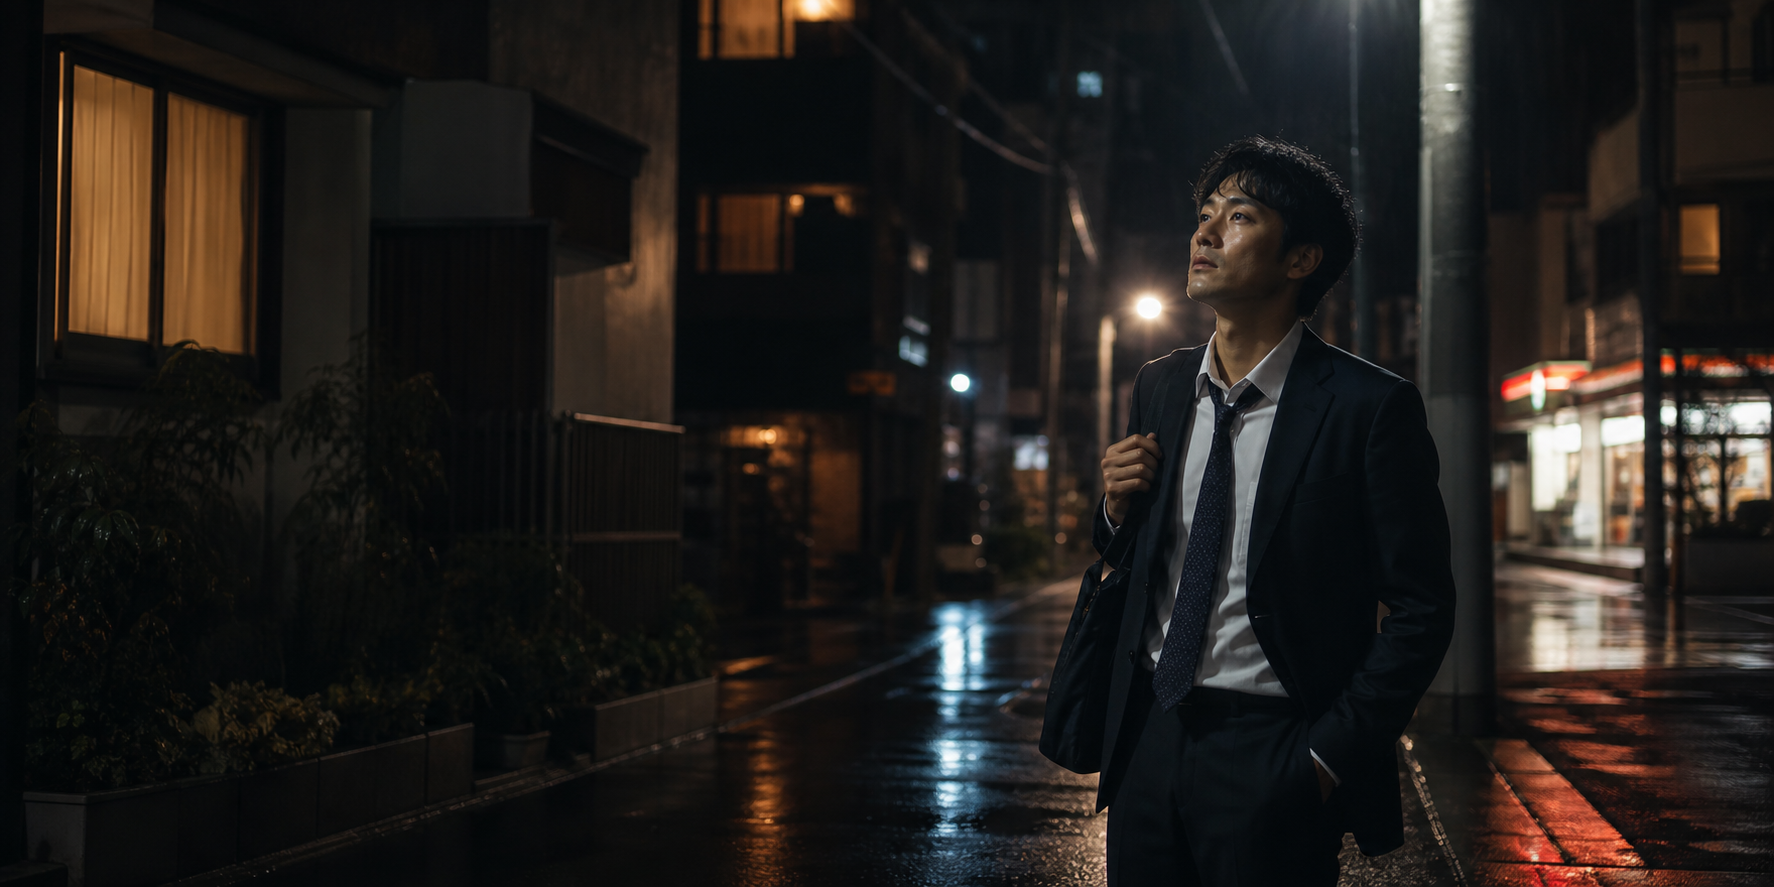
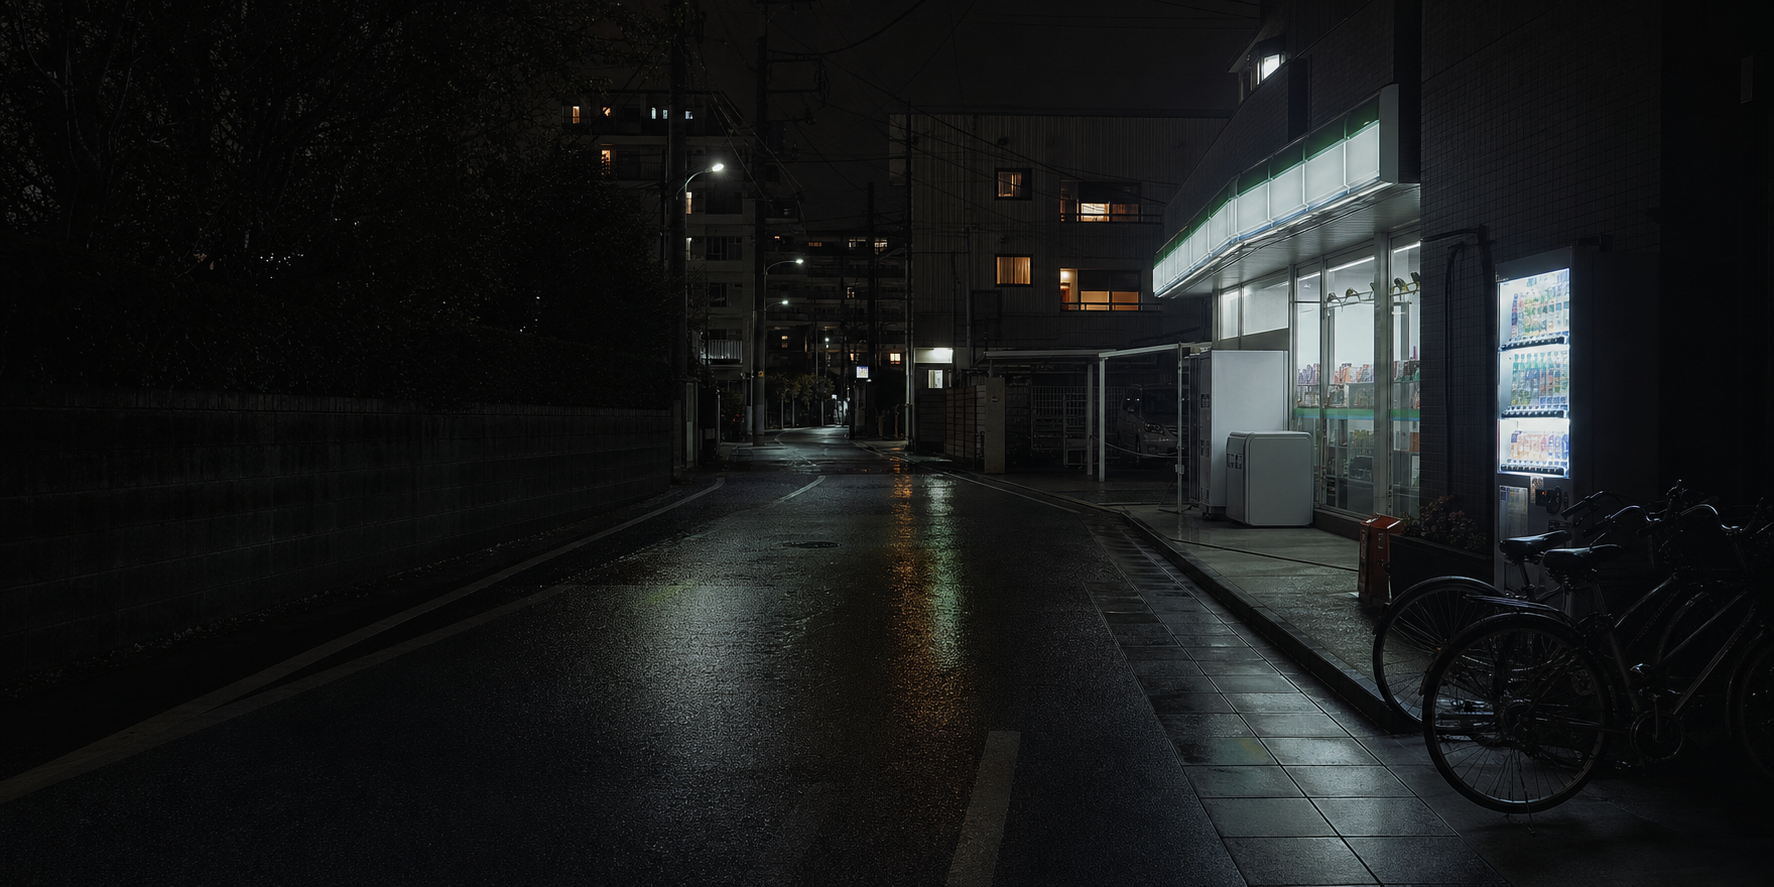
remove hero image

diff --git a/components/content.tsx b/components/content.tsx
@@ -5,77 +5,77 @@ export const entries = [
   {
     number: "01",
     title: "Nine years in a fitness club",
-    excerpt: "Before the office and the server alerts, there were opening shifts, closing shifts, and a body that got used to being tired.",
+    excerpt: "I was a top instructor. I loved the work. That made the feeling of being trapped harder to explain.",
     time: "6 min read"
   },
   {
     number: "02",
-    title: "Home after the office",
-    excerpt: "There are nights when I come home with nothing dramatic to say, only the weight of the day still on me.",
+    title: "Becoming an engineer",
+    excerpt: "I did not change jobs because I hated the old one. I changed because I needed more than one path.",
     time: "8 min read"
   },
   {
     number: "03",
-    title: "The part after work",
-    excerpt: "For a long time, I treated the rest of my life as the time left over.",
+    title: "Wife, children, options",
+    excerpt: "Protecting my family started to mean more than working hard. It meant keeping choices open.",
     time: "5 min read"
   }
 ];
 
 export const rituals = [
   { icon: TrainFront, label: "After the train", detail: "The workday ends, but it takes longer for the body to understand that." },
-  { icon: Lamp, label: "The apartment", detail: "Most of this record happens in small rooms, after everyone has settled down." },
-  { icon: BookOpen, label: "The notes", detail: "Writing down what happened before the memory gets too clean." },
-  { icon: HeartHandshake, label: "Family", detail: "A husband and father trying to notice what the day has done to him." }
+  { icon: Lamp, label: "The apartment", detail: "Most of this record happens at home, after everyone has settled down." },
+  { icon: BookOpen, label: "Side project", detail: "A small attempt to build options outside a company path." },
+  { icon: HeartHandshake, label: "Family", detail: "A husband and father trying to keep more doors open than before." }
 ];
 
 export const readCategories = [
   {
-    title: "Work",
+    title: "Fitness Club",
     notes: [
-      "The paycheck wasn't the problem.",
-      "I knew how to keep going. I did not know what it was costing.",
-      "Some days ended, but the office stayed in my face."
+      "Nine years. Early shifts, late shifts, regular members.",
+      "I was a top instructor and loved the work.",
+      "Love did not make the world feel wider."
+    ]
+  },
+  {
+    title: "Engineer",
+    notes: [
+      "I became an infrastructure engineer.",
+      "The new work did not make life simple.",
+      "It gave me another way to stand."
     ]
   },
   {
     title: "Family",
     notes: [
-      "I was good at taking care of others.",
-      "Being home and being present were not the same thing.",
-      "I could sit at the table and still be somewhere else."
+      "I have a wife and two children.",
+      "Being useful at work is not the same as being present at home.",
+      "Protecting them started to mean keeping options open."
     ]
   },
   {
-    title: "Money",
+    title: "Company",
     notes: [
-      "Rent, food, savings, diapers, train fare.",
-      "I counted what came in and avoided looking at what went out of me.",
-      "Money made some things possible. It did not make them clear."
+      "I felt trapped by a world with only one option.",
+      "I did not want my value decided by a company.",
+      "I kept wondering what would happen if that one door closed."
     ]
   },
   {
-    title: "Choice",
+    title: "Side Project",
     notes: [
-      "Maybe next year. Years passed.",
-      "I kept saying I would think about it later.",
-      "The decision was not dramatic. It was just there every morning."
-    ]
-  },
-  {
-    title: "Fear",
-    notes: [
-      "I was afraid of wasting the years I had already given.",
-      "The old life was heavy, but I knew where to stand inside it.",
-      "When I was tired, fear sounded like common sense."
+      "I started small, after work.",
+      "Not to impress anyone.",
+      "To practice having another option."
     ]
   },
   {
     title: "Quiet Nights",
     notes: [
-      "After everyone slept, I could hear what the day had been asking.",
-      "The room was ordinary. That made it harder to avoid.",
-      "Some nights I only sat there and let the house be quiet."
+      "After everyone slept, the house became quiet.",
+      "That was when I could hear what I had been avoiding.",
+      "Some nights I only sat there and let the thought stay unfinished."
     ]
   }
 ];

diff --git a/app/page.tsx b/app/page.tsx
@@ -1,35 +1,29 @@
-import Image from "next/image";
 import { CalendarDays, MapPin, Waves, type LucideIcon } from "lucide-react";
 import { EntryList, LinkPill, RitualGrid } from "@/components/content";
 import { SiteShell } from "@/components/site-shell";
 
 const stats: Array<[string, string, LucideIcon]> = [
-  ["Tone", "plain, personal, unfinished", Waves],
-  ["Place", "Japan, office, home, late trains", MapPin],
-  ["Pace", "short notes from after work", CalendarDays]
+  ["Then", "9 years in a fitness club", Waves],
+  ["Now", "infrastructure engineer", MapPin],
+  ["Why", "wife, two children, more options", CalendarDays]
 ];
 
 export default function Home() {
   return (
     <SiteShell>
-      <section className="relative min-h-[calc(100svh-66px)] overflow-hidden">
-        <Image
-          src="/images/tokyo-after-work.png"
-          alt="A person standing on a rainy Tokyo street after work"
-          fill
-          priority
-          sizes="100vw"
-          className="object-cover object-center"
-        />
-        <div className="absolute inset-0 bg-gradient-to-b from-ink/50 via-ink/68 to-ink" />
-        <div className="absolute inset-0 bg-[radial-gradient(circle_at_28%_24%,rgba(216,138,61,0.22),transparent_22rem)]" />
+      <section className="relative min-h-[calc(100svh-66px)] overflow-hidden bg-ink">
+        <div className="absolute inset-0 bg-[radial-gradient(circle_at_20%_18%,rgba(216,138,61,0.16),transparent_18rem),radial-gradient(circle_at_78%_12%,rgba(145,167,180,0.10),transparent_24rem),linear-gradient(145deg,#050506_0%,#0a0b0d_42%,#111014_68%,#050506_100%)]" />
+        <div className="absolute inset-0 opacity-[0.11] [background-image:linear-gradient(rgba(255,255,255,0.08)_1px,transparent_1px),linear-gradient(90deg,rgba(255,255,255,0.05)_1px,transparent_1px)] [background-size:64px_64px]" />
+        <div className="absolute inset-x-0 bottom-0 h-1/2 bg-gradient-to-t from-ink via-ink/70 to-transparent" />
+        <div className="absolute -right-24 bottom-10 h-72 w-72 rounded-full border border-white/10 bg-white/[0.025] blur-sm sm:h-96 sm:w-96" />
+        <div className="absolute left-4 top-20 h-px w-28 bg-ember/40 sm:left-8 sm:w-44" />
         <div className="relative mx-auto flex min-h-[calc(100svh-66px)] max-w-6xl flex-col justify-end px-4 pb-10 pt-24 sm:px-6 lg:px-8">
           <div className="max-w-3xl">
-            <p className="mb-5 text-xs font-semibold uppercase tracking-[0.36em] text-ember">Tokyo, after the office lights</p>
+            <p className="mb-5 text-xs font-semibold uppercase tracking-[0.36em] text-ember">Japan, after the shift ends</p>
             <h1 className="font-serif text-5xl leading-[0.9] text-bone sm:text-7xl lg:text-8xl">after work in japan</h1>
             <p className="mt-6 max-w-xl text-base leading-7 text-ash sm:text-lg">
-              Notes from a Japanese office worker after the day job ends: home, family, money,
-              fatigue, and the parts of life that do not fit on a resume.
+              I worked in a fitness club for nine years. I was a top instructor and loved the work.
+              Then I became an engineer because I did not want one company to decide the size of my life.
             </p>
             <div className="mt-8 flex flex-wrap gap-3">
               <LinkPill href="/read">Read entries</LinkPill>
@@ -56,11 +50,10 @@ export default function Home() {
       <section className="mx-auto grid max-w-6xl gap-8 px-4 py-14 sm:px-6 lg:grid-cols-[0.85fr_1.15fr] lg:px-8">
         <div>
           <p className="text-xs font-semibold uppercase tracking-[0.32em] text-ember">The record</p>
-          <h2 className="mt-4 font-serif text-4xl leading-tight text-bone sm:text-5xl">For years, I let work explain my life.</h2>
+          <h2 className="mt-4 font-serif text-4xl leading-tight text-bone sm:text-5xl">I loved the work. I still felt trapped.</h2>
           <p className="mt-5 text-sm leading-7 text-ash">
-            I spent nine years working in a fitness club. Today I work as an infrastructure engineer.
-            I am a husband. I am a father. This site keeps a record of what those facts feel like
-            after the office, with no clean ending.
+            I have a wife and two children. I started a side project. I am trying to protect my family
+            by keeping more options open than I used to have. This site is where I keep the record.
           </p>
         </div>
         <RitualGrid />

diff --git a/app/about/page.tsx b/app/about/page.tsx
@@ -2,15 +2,15 @@ import { PageFrame } from "@/components/site-shell";
 
 export default function AboutPage() {
   return (
-    <PageFrame eyebrow="About" title="A record from the years after work stopped being enough.">
+    <PageFrame eyebrow="About" title="From fitness club to engineer, without pretending it was simple.">
       <div className="grid gap-8 lg:grid-cols-[1fr_0.75fr]">
         <div className="space-y-5 text-base leading-8 text-ash">
-          <p>I spent nine years working in a fitness club.</p>
-          <p>Today I work as an infrastructure engineer.</p>
-          <p>I am a husband.</p>
-          <p>I am a father.</p>
-          <p>For years, I believed work was enough.</p>
-          <p>This website is a record of what happened after I stopped believing that.</p>
+          <p>I worked in a fitness club for nine years.</p>
+          <p>I was a top instructor. I loved the work.</p>
+          <p>But I felt trapped by a world with only one option.</p>
+          <p>I wanted a life where my value and choices were not decided by a company.</p>
+          <p>So I became an infrastructure engineer.</p>
+          <p>I have a wife and two children. I started a side project because I want to protect them by keeping more options open in life.</p>
         </div>
         <aside className="rounded-lg border border-white/10 bg-white/[0.035] p-5 shadow-glow">
           <p className="kanji-mark float-right ml-5 text-xs text-ember/70">after work</p>
@@ -18,15 +18,15 @@ export default function AboutPage() {
           <dl className="mt-6 grid gap-5">
             <div>
               <dt className="text-xs uppercase tracking-[0.26em] text-ash/50">Form</dt>
-              <dd className="mt-2 text-sm leading-6 text-ash">Short notes from workdays, family life, and late nights in Japan.</dd>
+              <dd className="mt-2 text-sm leading-6 text-ash">A personal archive about work, family, transition, and late nights in Japan.</dd>
             </div>
             <div>
               <dt className="text-xs uppercase tracking-[0.26em] text-ash/50">Tone</dt>
-              <dd className="mt-2 text-sm leading-6 text-ash">Plain, personal, and close to the facts.</dd>
+              <dd className="mt-2 text-sm leading-6 text-ash">Plain, restrained, and close to what actually happened.</dd>
             </div>
             <div>
               <dt className="text-xs uppercase tracking-[0.26em] text-ash/50">Boundary</dt>
-              <dd className="mt-2 text-sm leading-6 text-ash">Some parts are still unresolved. They stay that way here.</dd>
+              <dd className="mt-2 text-sm leading-6 text-ash">Some parts are still unresolved. This site does not clean them up.</dd>
             </div>
           </dl>
         </aside>

diff --git a/app/quiet-room/page.tsx b/app/quiet-room/page.tsx
@@ -5,12 +5,12 @@ const sections = [
   {
     icon: Archive,
     title: "What I Didn't Post",
-    text: "Fragments from workdays and family nights that stayed off the public page."
+    text: "Fragments from workdays, family nights, and the side project that stayed off the public page."
   },
   {
     icon: NotebookPen,
     title: "Private Notes",
-    text: "Short entries about work, home, money, family, and the pressure I usually keep quiet."
+    text: "Short entries about the office, money, children, marriage, and the pressure I usually keep quiet."
   },
   {
     icon: Layers,
@@ -20,24 +20,24 @@ const sections = [
   {
     icon: KeyRound,
     title: "Behind The Transition",
-    text: "Notes from moving out of fitness club work and into infrastructure engineering."
+    text: "Notes from leaving one-option work and becoming an infrastructure engineer."
   }
 ];
 
 export default function QuietRoomPage() {
   return (
-    <PageFrame eyebrow="Quiet Room" title="Private notes from the parts I am still sorting out.">
+    <PageFrame eyebrow="Quiet Room" title="A private monthly archive of thoughts still in progress.">
       <div className="grid gap-8 lg:grid-cols-[0.78fr_1.22fr]">
         <section className="rounded-lg border border-ember/25 bg-ember/[0.07] p-5 shadow-glow sm:p-8">
-          <p className="text-xs uppercase tracking-[0.32em] text-ember">Membership</p>
+          <p className="text-xs uppercase tracking-[0.32em] text-ember">Private archive</p>
           <div className="mt-6 flex items-end gap-2">
             <span className="font-serif text-6xl leading-none text-bone">$5</span>
             <span className="pb-2 text-sm text-ash">/month</span>
           </div>
           <p className="mt-3 text-sm text-ash/80">Cancel anytime.</p>
           <p className="mt-8 text-sm leading-7 text-ash">
-            Quiet Room is a private area for notes that do not belong on the open site:
-            unfinished thoughts about work, family, fear, money, and the transition still in progress.
+            Quiet Room is a private monthly archive: unfinished thoughts about work, family,
+            fear, money, side projects, and the transition still in progress.
           </p>
         </section>
 

diff --git a/app/read/page.tsx b/app/read/page.tsx
@@ -3,18 +3,18 @@ import { PageFrame } from "@/components/site-shell";
 
 export default function ReadPage() {
   return (
-    <PageFrame eyebrow="Read" title="Notes from work, home, and the hours between.">
+    <PageFrame eyebrow="Read" title="Themes from the life I am trying to keep open.">
       <div className="grid gap-8 lg:grid-cols-[0.72fr_1.28fr]">
         <div className="rounded-lg border border-white/10 bg-white/[0.035] p-5">
           <p className="text-sm leading-7 text-ash">
-            Small notes from a life still being sorted out: work, family, money, decisions,
-            fear, and the nights when none of it felt separate.
+            Notes by theme and stage: the fitness club years, becoming an engineer, family,
+            money, side work, fear, and the nights when none of it felt separate.
           </p>
           <div className="mt-8 border-t border-white/10 pt-5">
             <p className="text-xs uppercase tracking-[0.26em] text-ash/50">First note</p>
-            <p className="mt-3 font-serif text-3xl text-bone">The paycheck wasn't the problem.</p>
+            <p className="mt-3 font-serif text-3xl text-bone">I loved the work. That was not enough.</p>
             <p className="mt-3 text-sm leading-6 text-ash/80">
-              The problem was how much I had learned to leave out.
+              The problem was living inside a world where the next option was already chosen.
             </p>
           </div>
         </div>

diff --git a/app/layout.tsx b/app/layout.tsx
@@ -3,7 +3,7 @@ import "./globals.css";
 
 export const metadata: Metadata = {
   title: "after work in japan",
-  description: "A Japanese office worker's record of work, family, and the hours after."
+  description: "A personal archive about work, family, engineering, and keeping options open."
 };
 
 export default function RootLayout({ children }: Readonly<{ children: React.ReactNode }>) {

diff --git a/README.md b/README.md
@@ -2,7 +2,7 @@
 
 A complete dark-theme Next.js and Tailwind CSS website for a personal record:
 
-> A Japanese office worker's notes from work, family, and the hours after.
+> A personal archive about leaving one-option work, becoming an engineer, and protecting family by keeping more choices open.
 
 ## Pages
 